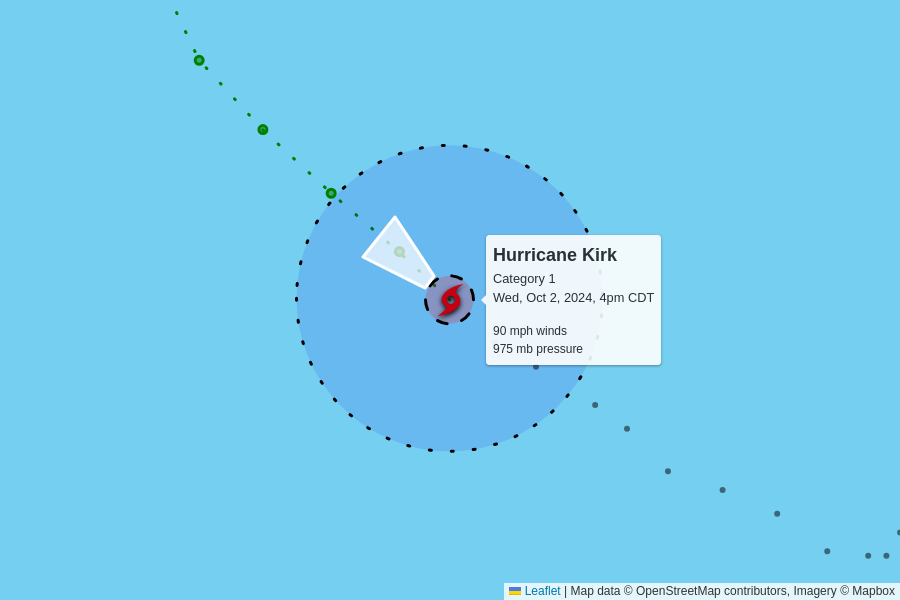
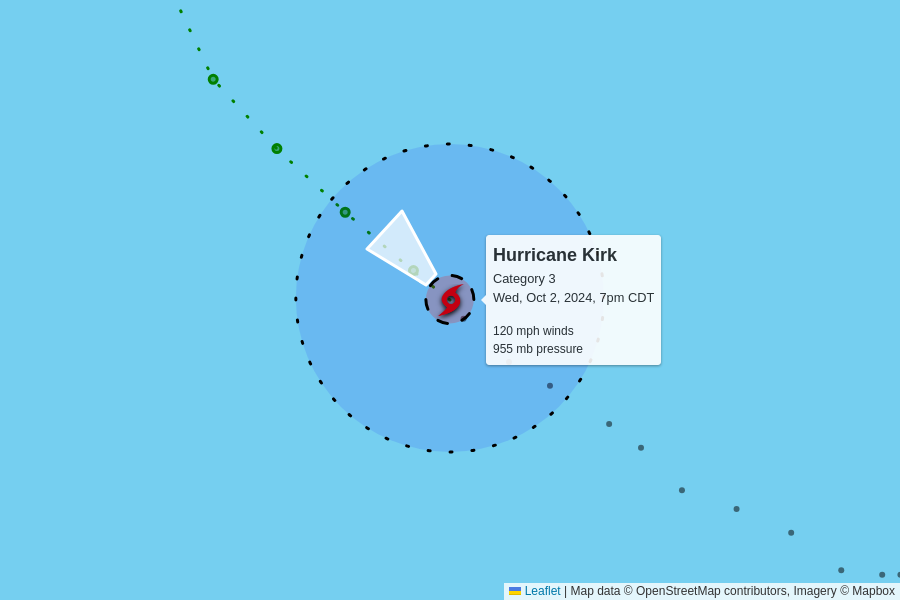
automatic update

diff --git a/docs/index.html b/docs/index.html
@@ -101,10 +101,10 @@
 
     <table>
       <tr>
-        <td colspan="6" class="storm category-1" >
+        <td colspan="6" class="storm category-3" >
           <h2>
-            Hurricane Kirk - Category 1
-            <p class="updated">last updated <span data-time>2024-10-02T21:00:00.000Z</span></p>
+            Hurricane Kirk - Category 3
+            <p class="updated">last updated <span data-time>2024-10-03T00:00:00.000Z</span></p>
           </h2>
         </td>
       </tr>
@@ -119,12 +119,12 @@
       </tr>
       <tr>
         <td class="spacer"></td>
-        <td>90 mph<br>+5 mph since last update</td>
-        <td>975 mb<br>-5 mb since last update</td>
+        <td>120 mph<br>+30 mph since last update</td>
+        <td>955 mb<br>-20 mb since last update</td>
         <td>
           12 mph to the northwest
           <br/>
-          <span style="display: inline-block; font-size: 1.5em; transform: rotate(310deg);">↑</span>
+          <span style="display: inline-block; font-size: 1.5em; transform: rotate(315deg);">↑</span>
         </td>
         <td><a href="https://raw.githubusercontent.com/mgwalker/atlantic-hurricanes/main/data/csv/AL122024.csv">AL122024.csv</a></td>
         <td><a href="https://www.nhc.noaa.gov/archive/2024/KIRK.shtml?">NHC advisories</a></td>
